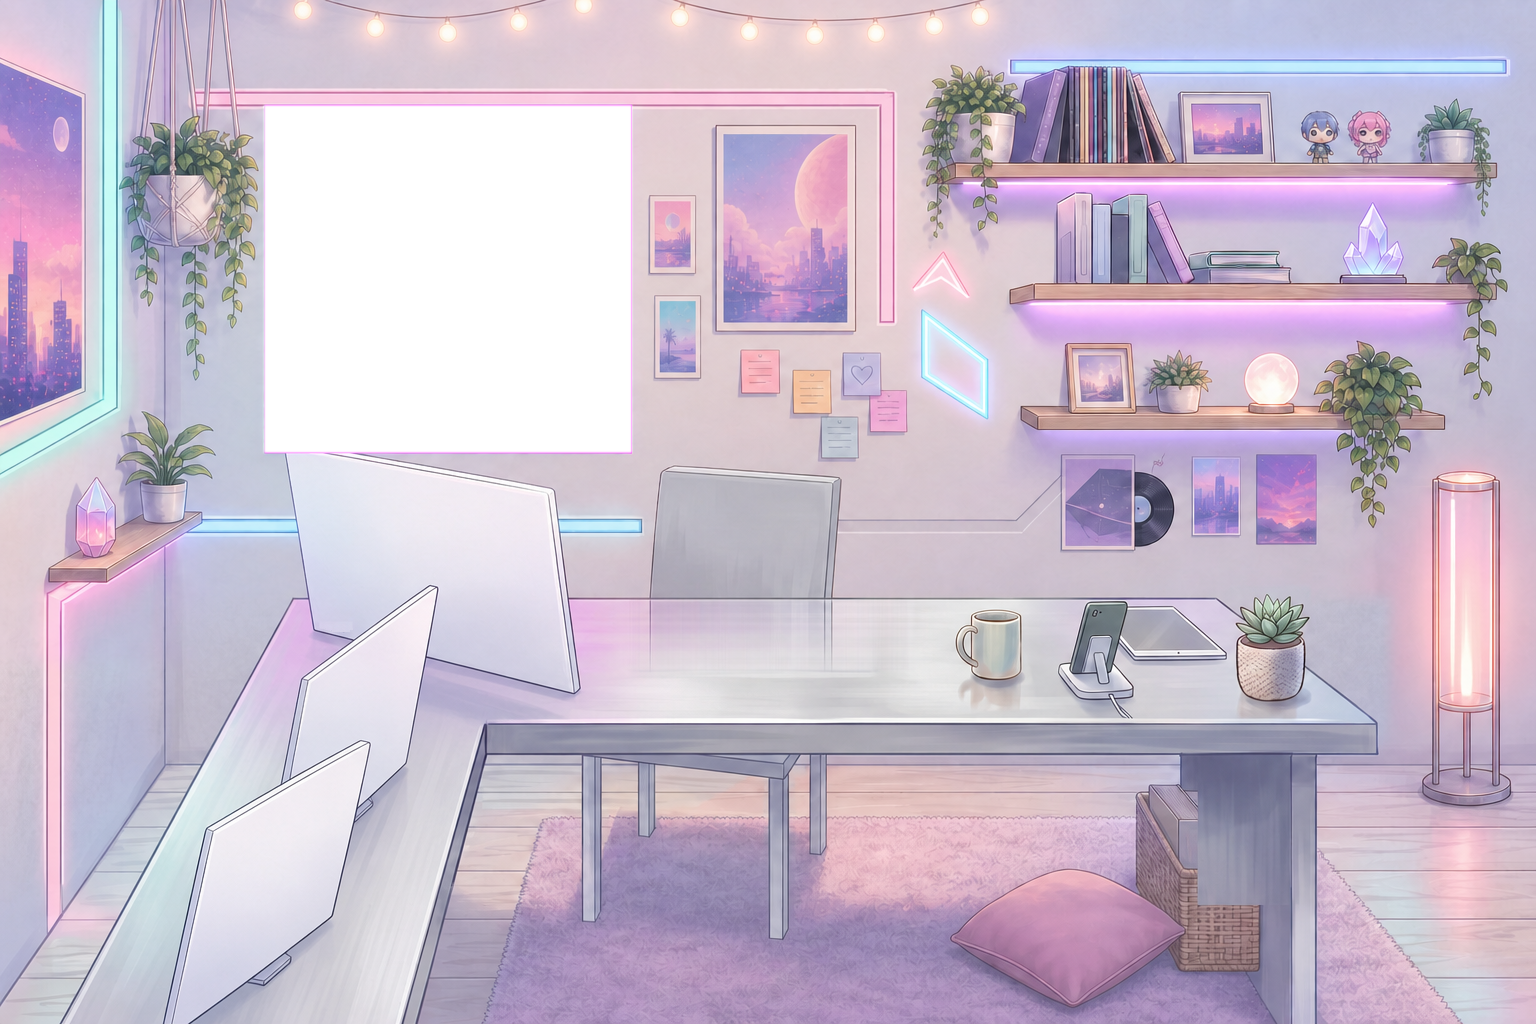
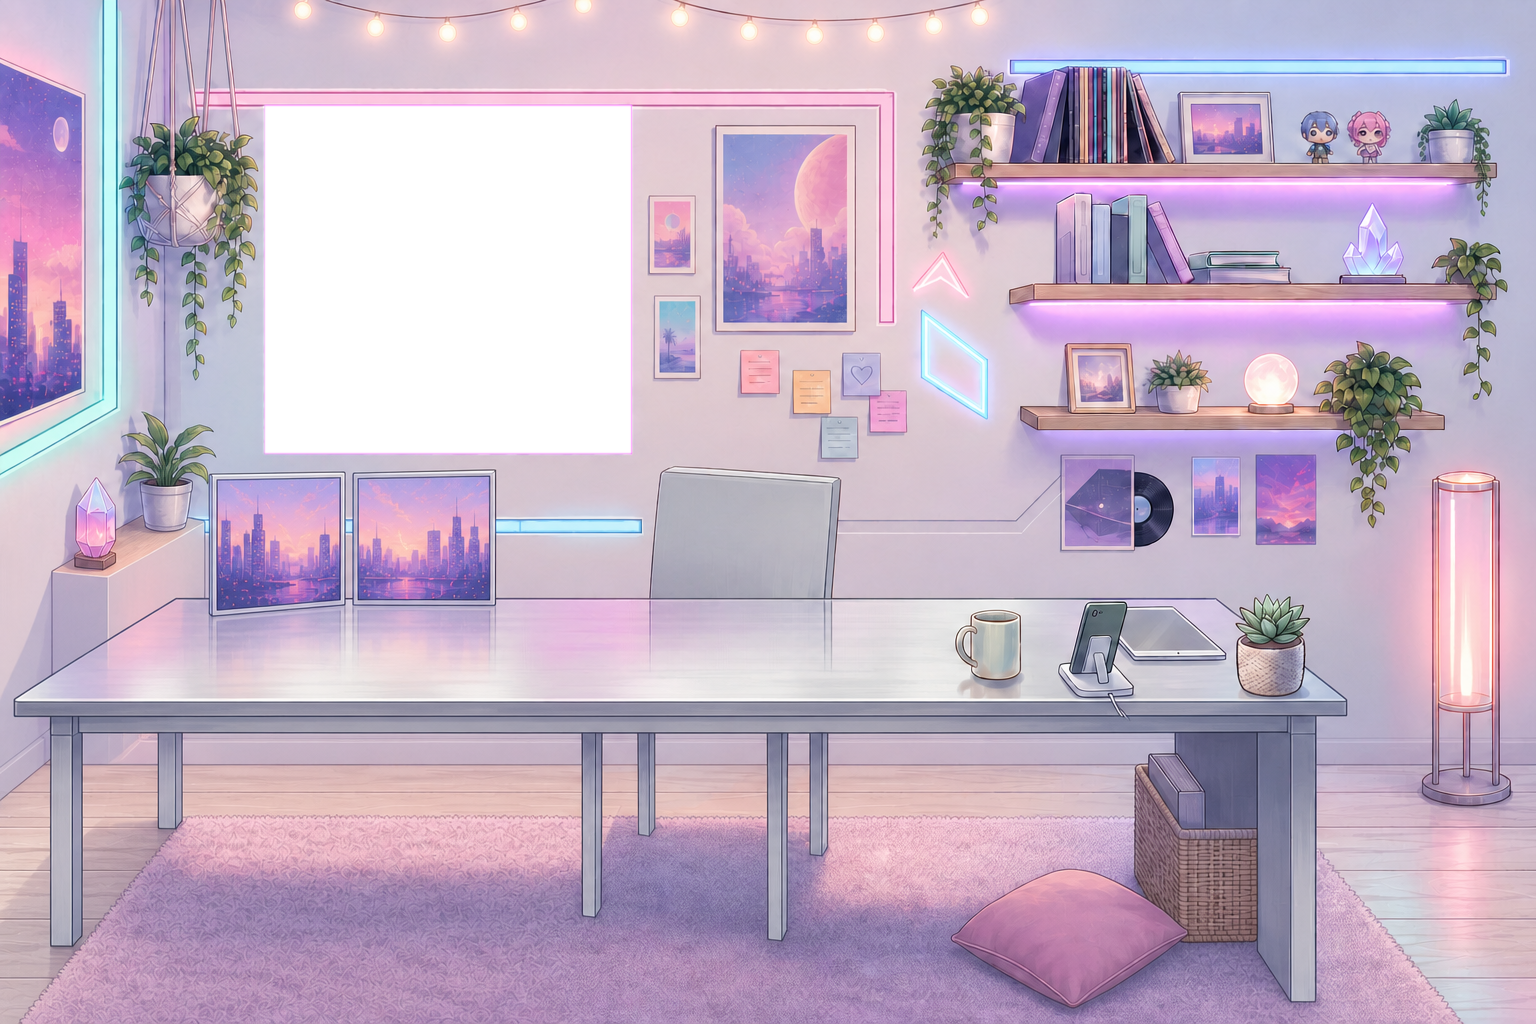
L 形桌的回折臂折回后墙：桌子改成沿墙的直台
原来短边从主桌左端朝镜头伸过来，用户要求它朝墙。于是台面往左续到
墙角、左下角整片变回地板，两块显示器搬到台面左段、屏幕朝房间。

改法见 HANDOFF 第 50 条：先用克隆在成品图上粗涂出新几何当引导图，
再让 codex 画成成品。主桌中位漂 1px、窗洞 1px、桌上物件位移全是 (0,0)。

MONITOR_EDGE_X 580 → 495（显示器往左让了 85px），键盘余量只增不减，
键盘和手不用重渲；measure_hands 的键盘左缘 594 仍然 ✓。

diff --git a/Scripts/blocking.py b/Scripts/blocking.py
@@ -22,21 +22,31 @@ W, H = 1536, 1024
 
 # 构图参数。改构图只动这里。
 #
-# 桌子是 L 形，她坐在**内转角**：主台面横在她身前，回折臂从左端朝镜头伸过来。
-# 回折臂是这版构图的关键——它一进画面就带来纵深，否则窗户/人/货架一字排开，
-# 整个房间会像一堵贴了东西的平墙。
+# 桌子沿后墙横着走，从左墙角一直到右边。**原来有一条朝镜头伸过来的回折臂**
+# （L 形，她坐在内转角），用户明确要求把那条臂折到后墙上去——
+# 于是台面往左续到墙角，成一条直台，画面里没有东西朝观众伸出来。
+#
+# 代价要知道：回折臂原本是这版构图唯一的纵深来源，去掉之后窗户/人/货架
+# 容易一字排开、像一堵贴了东西的平墙。纵深现在只剩桌沿厚度、左墙转角
+# 和地毯，重绘时这几样都别省。
+#
 # 桌子整体抬高约 9%：桌沿到画面底边的空间从 33% 提到 41%。
 # 之前腿一放直脚就出画，那不是姿势调不好，是桌下根本塞不下她从胯到脚的长度。
 HORIZON = 548
-MAIN_FAR_Y, MAIN_NEAR_Y = 598, 722          # 主台面的远近边
+MAIN_FAR_Y, MAIN_NEAR_Y = 598, 722          # 台面的远近边
+# 这两个只定**道具坐标系**（`desk_point` 的 u 就在它们之间插值），
+# 动它等于把键盘、杯子、平板全挪一遍。要改台面左端请动 EXT_*。
 MAIN_FAR = (296, 1216)
 MAIN_NEAR = (232, 1372)
-RETURN_BOTTOM = (64, 402)                    # 回折臂在画面底边的左右端
-RETURN_SPLIT = 486                           # 主台面近边上，回折臂从这里岔出去
+# 台面左端续到墙角（远边 / 近边的 x）。近边给到画布外：重绘把左端面的透视
+# 画得比灰模陡（实测那条边从 (170,600) 斜到 (12,704)），遮罩要**宁可多包一点**
+# 也别短——短了那一小块桌子只进房间层、不进桌面层。多包的部分是墙和地板，
+# 那儿又没有她，画在桌面层里看不出来。
+EXT_FAR_X, EXT_NEAR_X = 150, -40
 DESK_LIP = 32
-LEG_X = (1300,)                              # 只画右前腿；左侧被回折臂占了
+LEG_X = (176, 1300)                          # 左右前腿。左侧不再被回折臂占着
 LEG_W = 22
-WINDOW = (268, 96, 632, 452)                 # 窗洞。避开她（x≈583 起）也避开回折臂
+WINDOW = (268, 96, 632, 452)                 # 窗洞。避开她（x≈583 起）
 SHELF = (1044, 96, 1462, 334)
 
 # 灰模的明度也跟着新方向调亮一档：重绘会照着灰模的明暗关系走，
@@ -59,12 +69,16 @@ MAIN_PROPS = [
     ("tablet",   0.87, 0.50, 96, 72),
     ("plant",    0.95, 0.32, 76, 104),
 ]
-# 回折臂上的显示器。**侧对着她**，所以镜头看到的是机背——
-# 画成正面矩形就成了"电脑对着观众"，很怪；屏幕内容本来也就看不见，
-# 因此这里不留品红，画面里唯一的品红只有窗户。
+# 台面左段上的显示器。回折臂没了之后它们站到直台上，屏幕朝房间这一侧，
+# 支架在面板背后（脚朝墙，不朝镜头）。
+#
+# **右缘必须留在 x≈520 以内**：`measure_hands.MONITOR_EDGE_X` 是拿它量的，
+# 键盘和手的左缘不能越过它（第 40 条）。往左让得越多，键盘的余量越大。
+# 屏幕内容不留品红——画面里唯一的品红是窗户，`cut_scene.window_rect`
+# 认的是最大那块。
 SCREENS = [
-    dict(foot=(268, 916), w=150, h=196, lean=54),
-    dict(foot=(186, 1016), w=162, h=214, lean=60),
+    dict(foot=(206, 700), w=142, h=182, lean=18),
+    dict(foot=(352, 676), w=124, h=160, lean=14),
 ]
 
 
@@ -77,18 +91,16 @@ def desk_point(u, v):
 
 
 def desk_surface():
-    """L 形台面的多边形。顺时针：主台面远边 → 右端 → 近边 → 岔出回折臂 → 回到左端。"""
-    return [(MAIN_FAR[0], MAIN_FAR_Y), (MAIN_FAR[1], MAIN_FAR_Y),
-            (MAIN_NEAR[1], MAIN_NEAR_Y), (RETURN_SPLIT, MAIN_NEAR_Y),
-            (RETURN_BOTTOM[1], H), (RETURN_BOTTOM[0], H),
-            (MAIN_NEAR[0], MAIN_NEAR_Y)]
+    """台面的梯形。顺时针：远边（左端续到墙角）→ 右端 → 近边 → 回到左端。"""
+    return [(EXT_FAR_X, MAIN_FAR_Y), (MAIN_FAR[1], MAIN_FAR_Y),
+            (MAIN_NEAR[1], MAIN_NEAR_Y), (EXT_NEAR_X, MAIN_NEAR_Y)]
 
 
 def draw_desk(d, top, lip, leg):
     d.polygon(desk_surface(), fill=top)
-    # 桌沿厚度只画主台面那一段——回折臂是朝镜头伸的，看不到它的沿
-    d.polygon([(RETURN_SPLIT, MAIN_NEAR_Y), (MAIN_NEAR[1], MAIN_NEAR_Y),
-               (MAIN_NEAR[1], MAIN_NEAR_Y + DESK_LIP), (RETURN_SPLIT, MAIN_NEAR_Y + DESK_LIP)],
+    # 桌沿厚度现在整条近边都要画——回折臂没了，左段的沿也对着镜头
+    d.polygon([(EXT_NEAR_X, MAIN_NEAR_Y), (MAIN_NEAR[1], MAIN_NEAR_Y),
+               (MAIN_NEAR[1], MAIN_NEAR_Y + DESK_LIP), (EXT_NEAR_X, MAIN_NEAR_Y + DESK_LIP)],
               fill=lip)
     # 前腿。桌下必须留空——能看见她的腿是这版构图的全部意义。
     for x in LEG_X:
@@ -102,13 +114,13 @@ def draw_props(d, solid=None):
     for s in SCREENS:
         x, y = s["foot"]
         w, h, lean = s["w"], s["h"], s["lean"]
-        # 底边贴在回折臂上（沿着台面往右后方斜），面板竖起来并向右让开一点：
-        # 读起来就是一台立着的显示器，屏幕朝她、机背朝我们
-        quad = [(x, y), (x + w, y - w * 0.30),
-                (x + w + lean, y - w * 0.30 - h), (x + lean, y - h)]
+        # 底边贴在直台上，只带一点透视斜度；面板基本竖直、稍稍后仰。
+        # 读起来是一台正对房间立着的显示器，支架藏在面板后面
+        quad = [(x, y), (x + w, y - w * 0.08),
+                (x + w + lean, y - w * 0.08 - h), (x + lean, y - h)]
         d.polygon(quad, fill=solid or C_METAL)
         if solid is None:
-            d.line([quad[3], quad[2]], fill=C_NEON_B, width=5)   # 机背上沿透出的辉光
+            d.line([quad[3], quad[2]], fill=C_NEON_B, width=5)   # 屏幕上边框的辉光
 
 
 def build(character_path, out_dir):

diff --git a/Blender/measure_hands.py b/Blender/measure_hands.py
@@ -37,15 +37,21 @@ from mathutils import Vector
 TIPS = ("Index3", "Middle3", "Ring3", "Little3")
 VRM = sys.argv[-1] if sys.argv[-1].endswith(".vrm") else "Snozzy.vrm"
 
-# 画上去的那台显示器，右缘在画布上的 x。
+# 画上去的显示器，右缘在画布上的 x。
 #
-# 这条线是**硬边界**：显示器立在桌子前沿偏左，比键盘更靠近镜头，本该挡住
-# 键盘；可键盘和手是画在桌面层**之上**的，压过去就是键盘穿进显示器里
+# 这条线是**硬边界**：显示器立在桌面上、比键盘更靠近镜头，本该挡住键盘；
+# 可键盘和手是画在桌面层**之上**的，压过去就是键盘穿进显示器里
 # （第 40 条）。所以键盘和手的左缘必须全部待在这条线右边。
 #
 # 重新量的办法（换了重绘图就要重量）：对 `Assets/desk.png` 逐行求横向梯度，
-# 在 x∈[440,660] 里找最靠右的强边缘，y=600 处 569、y=690 处 580，取最大值。
-MONITOR_EDGE_X = 580
+# 在显示器所在的那段 x 里找**最靠右的强边缘**（>40 灰阶）。
+# **别用"梯度最大的那一列"**——那报的是"谁最强"，附近的东西一改冠军就换人，
+# 显示器根本没动数字也会跳（第 48 条）。
+#
+# 现在这一版：回折臂折回后墙之后显示器挪到了台面左段，x∈[150,600]、
+# y=560/580/600 三行量出来都是 495。比上一版的 580 往左让了 85 像素，
+# 键盘的余量只增不减，所以键盘和手不用重渲。
+MONITOR_EDGE_X = 495
 
 
 def measure(press=0.0, side_first="L"):

diff --git a/HANDOFF.md b/HANDOFF.md
@@ -226,8 +226,11 @@ python3 Scripts/cut_scene.py Art/scene_rich.png --out Assets
 擦完写到 `scene_empty_clean.png` 再切层。
 `--box` 是水印的矩形，换一张图要重新量（拿网格图对一下就行）。
 
-重绘对构图的保持度是**实测过的**：窗洞误差 3–9 像素，桌沿/回折臂/桌腿全部对上。
+重绘对构图的保持度是**实测过的**：窗洞误差 3–9 像素，桌沿/桌腿全部对上。
 所以「我定构图、它上色」这条路是可靠的。
+
+**要动构图本身**（挪家具、改桌子形状）而不只是加细节，见第 50 条：
+先在成品图上用**克隆**粗涂出新几何当引导图，再让 codex 画成成品。
 
 切层用**灰模自带的遮罩**而不是从成品抠色——重绘会改颜色、加辉光和雾，
 颜色抠不干净；遮罩是画灰模时定义的，形状精确且免费。
@@ -519,8 +522,10 @@ y=267 的头顶，腿根本影响不到那里。判据要改成**按阈值二值
 
 **别指望加个 Holdout 补救**：键盘往左挪的时候，她的右手也一起进了
 显示器的轮廓，加挡板只会把手指也切掉。所以这是一条**硬边界**，
-不是遮挡关系能救的：键盘和手的左缘必须整个待在显示器右缘
-（画布 x≈580）右边。`measure_hands.py` 现在直接报这个数。
+不是遮挡关系能救的：键盘和手的左缘必须整个待在显示器右缘右边。
+`measure_hands.py` 现在直接报这个数。**这条线会跟着重绘图变**——
+当时是 x≈580，回折臂折回后墙、显示器挪到台面左段之后是 x≈495
+（第 50 条），换图必须重量。
 
 于是右腕那笔账只能靠别的还：把键盘收窄到 0.36（左缘让出 18 像素）、
 转角从 8° 收到 4°、再拿 `ELBOW_POLE` 去削。最后 25.7°/30.6°，
@@ -708,6 +713,38 @@ y=600 处 568、y=690 处 578，`MONITOR_EDGE_X = 580` 不用动。
 （`--dy -22`，从上方干净的面板取样）就没这个问题：**克隆不碰框边**。
 判据是拿二次曲面拟合面板表面看残差——平滑渐变本该拟合得很好，
 字迹会顶出来。rms 从 8.4 掉到 1.4 灰阶。
+
+**50. 要动构图（不只是加细节），先拿现成像素拼一张"引导图"，别只给文字。**
+用户要求把 L 形桌那条朝镜头伸的回折臂折到后墙上去。这不是涂改能完的事：
+画面左下角整片要变回地板，桌子要往左续到墙角，三块显示器要搬家。
+
+纯文字描述这种改动会跑偏（第二节开头那两轮就是这么废的）。正解是先
+**在成品图上粗涂出新几何**再让 codex 画成成品——等于把"灰模 → 重绘"
+这条老路搬到局部来用，只是底子从全灰换成了成品图。
+
+粗涂**别用平色块，用克隆**。桌面、地板、墙都是横向的带状结构（同一行上
+质地一致、只有低频渐变），横着挪一段取样，木纹和高光自动对得上——
+和擦水印同一个道理（第 32 条）。平色块拼出来读不出材质，codex 拿到
+只会把那块当一件新家具重画。第一版我用平色块，出来的左下角是一坨死粉色。
+
+**取样列要挑干净的**，挑错了就是把椅子腿、杯子、坐垫一起克隆过来，
+而且是**重复好几遍**地过来（我先后把落地灯底座和坐垫各铺了三四个）。
+挑法：对目标行段逐列算平均横向梯度，最小的那一带就是没有物件轮廓的。
+`Scripts/blocking.py` 里那几个 `*_SRC` 常量就是这么定的。
+
+实测结果：主桌中位漂 1px、窗洞 1px、桌上物件位移全是 (0,0)（做互相关量的，
+相关 0.85–0.97），左半边整片重画。
+
+**顺带两条：**
+
+- **遮罩要跟着重绘走，而且宁可多包一点。** 重绘把桌子左端面的透视画得比
+  灰模陡（那条边从 (170,600) 斜到 (12,704)，灰模只斜到 150）。遮罩短了，
+  那一小块桌子就只进房间层、不进桌面层。判法是把 `desk.png` 叠在亮绿底上
+  看边界——**多包的部分是墙和地板，那儿没有她，画在桌面层里看不出来；
+  少包了却是真漏**。
+- **`MONITOR_EDGE_X` 这类"从画面量出来的常数"，换图必须重量**（第 48 条的
+  量法）。这次 580 → 495，往左让了 85 像素，键盘余量只增不减，
+  所以键盘和手不用重渲——但方向反过来的话就得重渲了，别默认没事。
 
 ---
 
